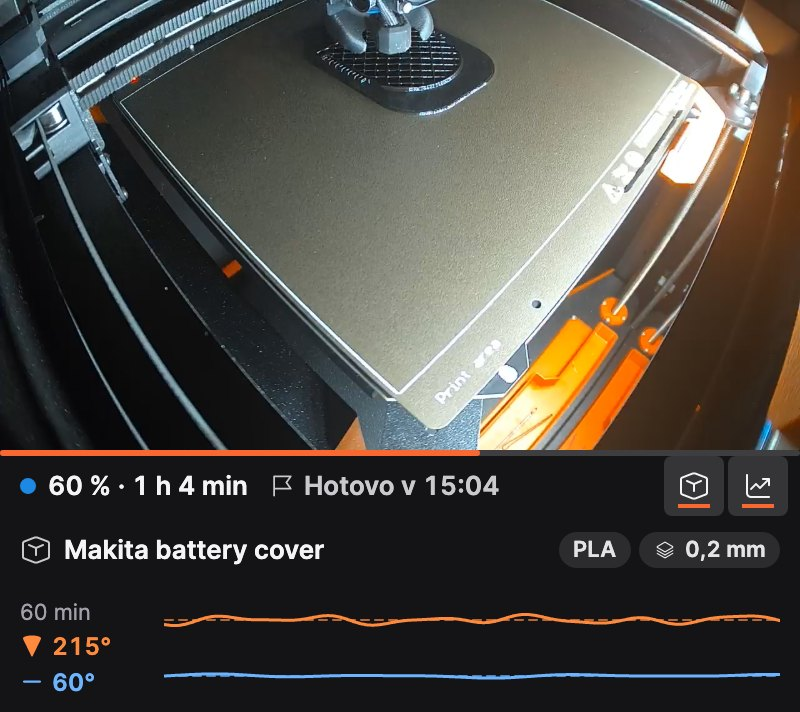
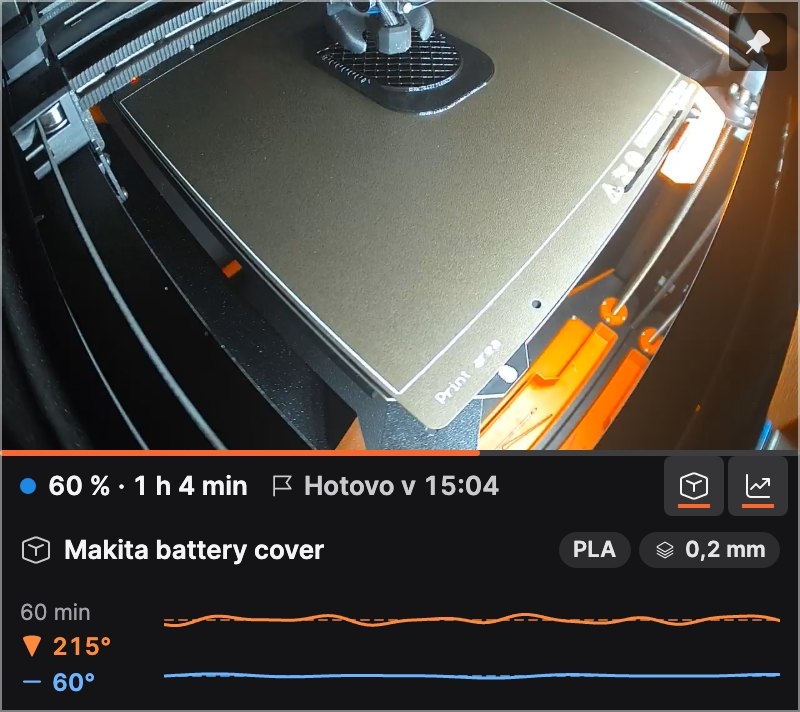
Regenerate the macOS UI snapshots and README mini preview for T-117 and T-118
The pin (T-117) and the thin outline (T-118) of the camera mini preview left 14 snapshot
tests failing on macOS; the new references match the Windows set. Ticks both items in T-115.

Changed region(s): [[0.0, 0.9888, 1.0, 1.0], [0.9062, 0.0, 1.0, 0.1236], [0.0, 0.0, 0.0312, 0.0309]]

diff --git a/tasks/todo/T-115-mac-manual-verification.md b/tasks/todo/T-115-mac-manual-verification.md
@@ -41,7 +41,7 @@ zbyly (T-038 otázky 2–3, T-100 otázky 1–2), jsou tu u příslušných krok
       Výstup potřebují `mac.gatekeeper*` a oddíl 5.
       Ověřeno 2026-10-30 (agent, `develop` 33a2678, verze 0.3.1): kód 0, všech 7 souborů v `dist/`, `shasum -c` = OK,
       `codesign --verify --deep --strict` platný, hardened runtime u všech Mach-O, AOT smoke test `.app` prošel (UIElement).
-- [ ] **T-117** (krit. „Snímky UI: okno kamery s ikonou“, část macOS; bez toho na Macu selže 12 snímkových testů):
+- [x] **T-117** (krit. „Snímky UI: okno kamery s ikonou“, část macOS; bez toho na Macu selže 12 snímkových testů):
       přegenerovat macOS sadu `tests/LayerPeek.App.UiTests/Snapshots/macOS/` –
       `LAYERPEEK_UPDATE_SNAPSHOTS=1 dotnet test --project tests/LayerPeek.App.UiTests`, commitnout jen změněné
       `camera-mini-buttons.png`, `camera-mini-strip-240-pl.png`, `camera-mini-strip-chart-steady.png`,
@@ -52,7 +52,7 @@ zbyly (T-038 otázky 2–3, T-100 otázky 1–2), jsou tu u příslušných krok
       a testy spustit znovu bez proměnné. Potom přegenerovat obrázky README (`docs/readme-screenshots.md`, generují se
       na macOS): změní se `docs/images/{en,cs}/camera-mini.jpg` (špendlík), ostatní obrázky zkontrolovat (rezerva
       tlačítek okna 146 místo 112 může zúžit kartu nahoře uprostřed v `camera-window.jpg`), nesouvisející změny vrátit.
-- [ ] **T-118** (krit. „Snímky UI: malý náhled na světlém a tmavém pozadí“, část macOS; bez toho na Macu selže
+- [x] **T-118** (krit. „Snímky UI: malý náhled na světlém a tmavém pozadí“, část macOS; bez toho na Macu selže
       14 snímkových testů): přegenerovat macOS sadu `tests/LayerPeek.App.UiTests/Snapshots/macOS/` stejným postupem jako
       u T-117 (lze spojit do jednoho běhu) – nové `camera-mini-outline.png` a `camera-mini-outline-hover.png`, změněné
       (tenký obrys po obvodu) `camera-mini-buttons.png`, `camera-mini-strip-240-pl.png`,
@@ -245,4 +245,8 @@ Aplikaci spouštět z Finderu (`/Applications/LayerPeek.app`), ne z Terminálu.
 - (žádné vlastní; rozhodovací body T-038 otázky 2–3 a T-100 otázky 1–2 jsou u kroků výše)
 
 ## Poznámky k implementaci
-(vyplní agent / uživatel po ověření)
+- 2026-11-01 (snímky T-117 a T-118, macOS): na developu po T-117/T-118 selhalo na Macu 14 snímkových testů (2 chybějící
+  `camera-mini-outline*.png`, 12 malých náhledů bez špendlíku a obrysu). macOS sada přegenerována; nové snímky odpovídají
+  sadě Windows (špendlík vpravo nahoře, tenký obrys). `camera-layout-mode.png` a `camera-layout-mode-de-480.png` se
+  přepsaly také, ale se starými referencemi projdou v toleranci – vráceny. README: změnil se jen
+  `docs/images/{en,cs}/camera-mini.jpg` (špendlík a obrys), `camera-window.jpg` beze změny. Celá sada testů na Macu prošla.
